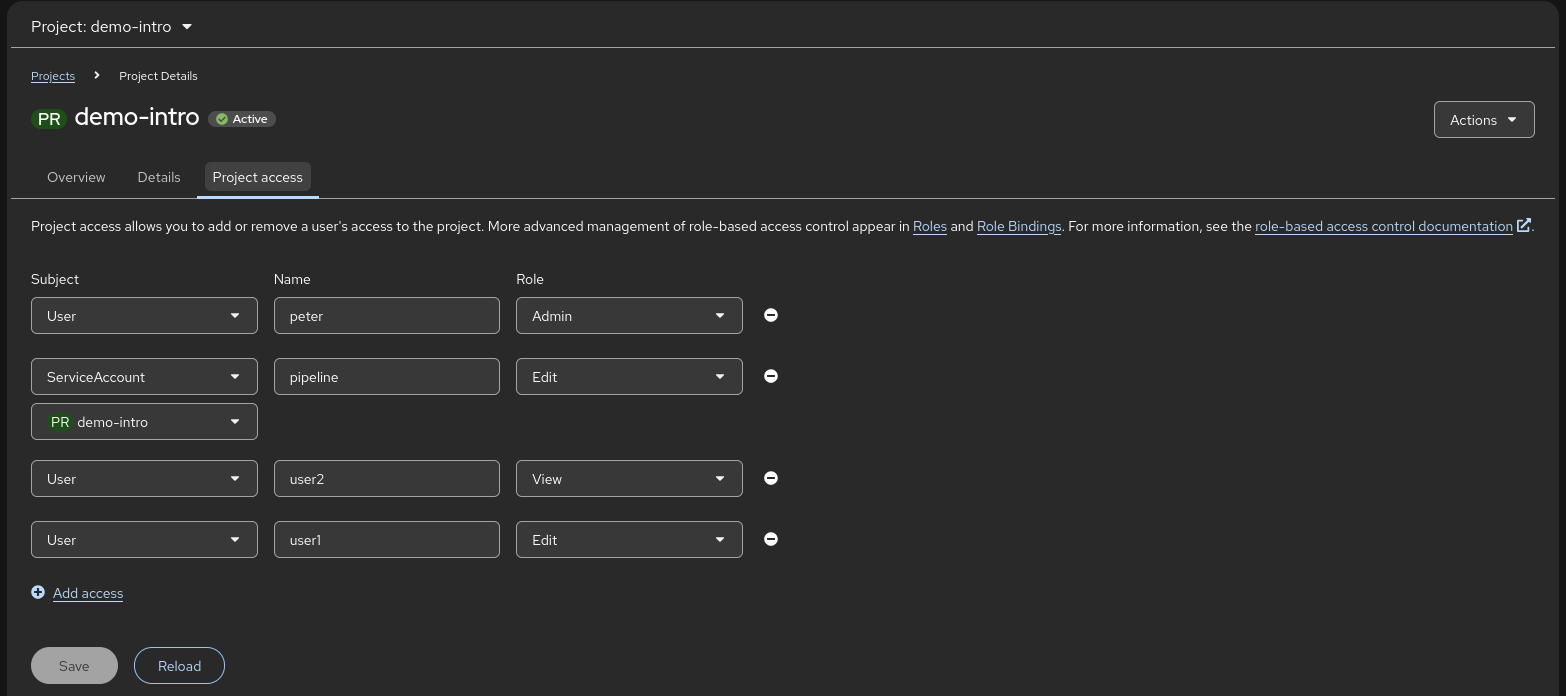
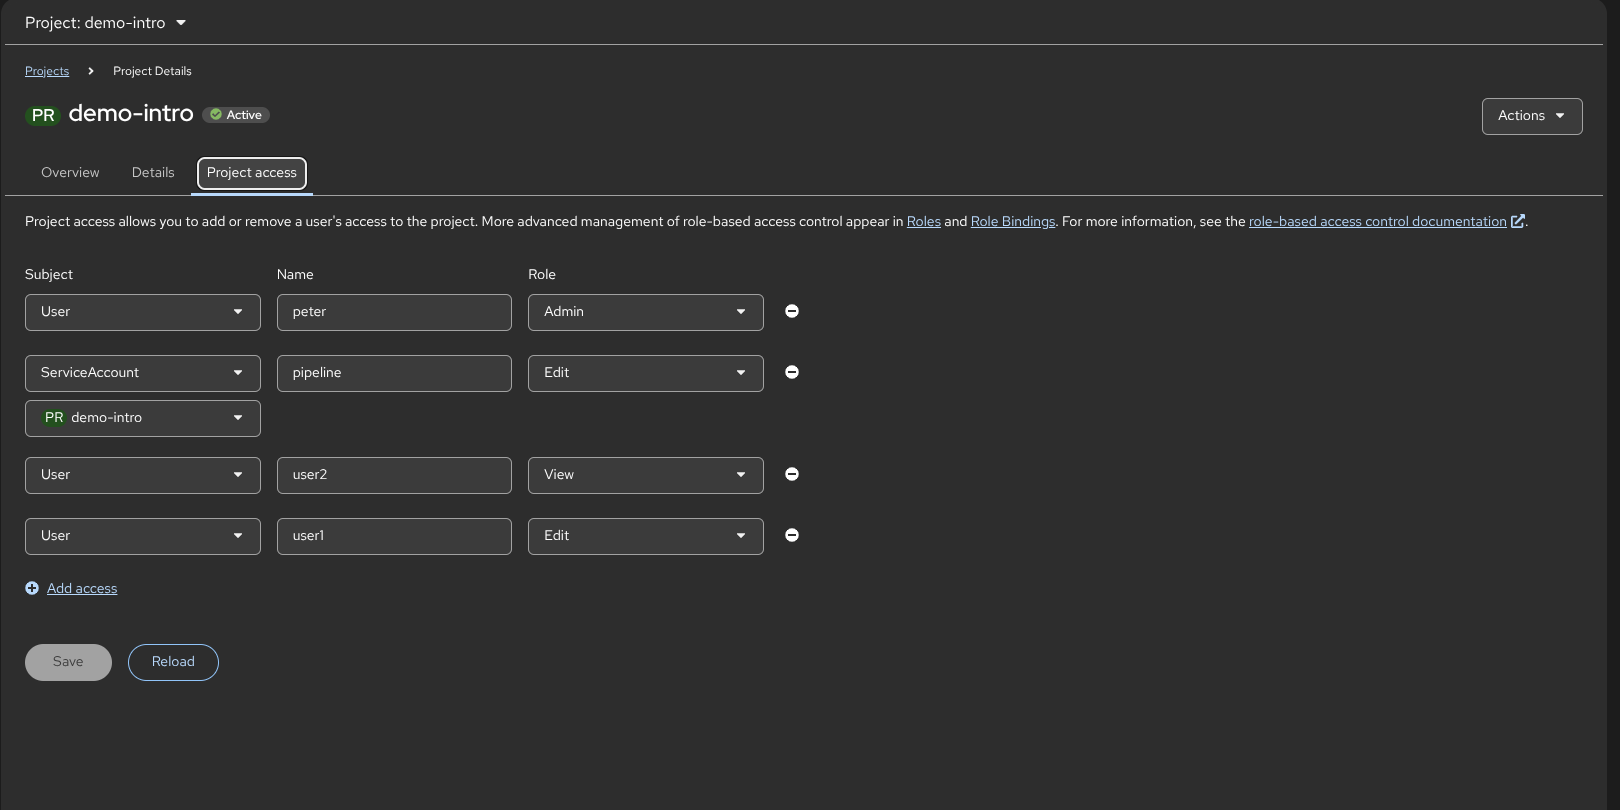
Added screendumps and adjusted demo scripts. Added hpa to the demo.

diff --git a/demo1-fundamentals/slides/index.html b/demo1-fundamentals/slides/index.html
@@ -150,7 +150,7 @@
     <div>
       <h2>Cluster</h2>
       <p class="def">Control plane runs the cluster.<br>Workers run your apps.</p>
-      <p class="where">In the demo: <b>the admin's Nodes page</b></p>
+      <p class="where">In the demo: <b>pods spread across the workers</b></p>
     </div>
     <svg class="diagram" viewBox="0 0 800 520" aria-label="Cluster: control plane and worker nodes">
       <rect class="dg-box grey" x="10" y="10" width="780" height="500" rx="16"/>
@@ -714,21 +714,23 @@ oc get deployment,service,secret,pvc \
 <section>
   <section>
     <h2>2 · Containers and pods</h2>
-    <p class="subheading">Look inside - then see what a bare pod is worth</p>
+    <p class="subheading">Look inside - reach the database by name - see what a bare pod is worth</p>
     <div class="steps">
       <ol>
         <li>The database pod: Details, <b>Logs</b>, <b>Terminal</b>, Events</li>
         <li><b>+Add → Import YAML</b>: a pod is a name and an image</li>
+        <li>Its Terminal: <code>postgresql</code> → the <b>Service</b></li>
         <li>Delete it - nothing brings it back</li>
-        <li>Delete the database pod - it comes back</li>
+        <li>Delete the database pod - new pod, same Service</li>
       </ol>
       <div>
         <p class="cli-label">The same, as code</p>
 <pre><code class="language-bash">oc rsh deployment/postgresql psql -c '\l'
 oc apply -f hello-pod.yaml
+oc exec hello -- getent hosts postgresql
 oc delete pod hello
 oc delete pod -l app=postgresql
-oc get pods</code></pre>
+oc get pods -o wide; oc get svc postgresql</code></pre>
       </div>
     </div>
     <aside class="notes">
@@ -737,9 +739,22 @@ Topology → postgresql → the pod. Details: pod IP and Node (tie back to
       inside the running container; id - a random high UID, not root. Events:
       scheduled → volume attached → pulled → started.
       +Add → Import YAML, paste manifests/hello-pod.yaml, Create: "this is all
-      a pod is - a name and an image". Actions → Delete Pod: gone for good.
+      a pod is - a name and an image".
+      The Service, from another pod: hello → Terminal tab:
+        getent hosts postgresql
+          → 172.30.x.x postgresql.demo-intro.svc.cluster.local
+        echo > /dev/tcp/postgresql/5432 && echo "postgresql:5432 is reachable"
+      "Any pod in the project can use the name postgresql. It resolves to
+      172.30... - the Service's stable address, not the database pod's 10.x
+      address from its Details tab - and the connection goes through. The
+      guestbook will use exactly that name in Part 3."
+      Actions → Delete Pod on hello: gone for good - nothing manages it.
       Contrast: delete the PostgreSQL pod - its Deployment replaces it within
-      seconds, and the data survives on the PVC.
+      seconds, with a NEW 10.x IP (Details), while the Service keeps the same
+      172.30 address. The data survives on the PVC.
+      If someone asks about connecting a desktop tool: oc port-forward
+      svc/postgresql 5432:5432 on the laptop (needs oc locally - the web
+      terminal runs inside the cluster), then the tool uses localhost:5432.
       Press DOWN for backup screenshots.
     </aside>
   </section>
@@ -815,8 +830,19 @@ Git Repo URL: https://local-gitea-gitea.apps.homeocp.ocp4.peterlarsen.org/ocpdem
     <div class="shot" data-src="images/demo1-source-environment.webp" data-caption="Deployment → Environment tab, one row mapped"></div>
   </section>
   <section class="backup">
-    <span class="backup-tag">Backup</span><h3>The guestbook, v1.0</h3>
-    <div class="shot" data-src="images/demo1-source-app-v1.webp" data-caption="Guestbook page v1.0 with entries"></div>
+    <span class="backup-tag">Backup</span><h3>The guestbook v1.0 - at its Route, talking to the database</h3>
+    <div class="shot" data-src="images/demo1-source-app-v1.webp" data-caption="The guestbook at https://guestbook-demo-intro.apps... - version, serving pod and database in the banner; two signed entries"></div>
+    <aside class="notes">
+      The end of Part 3: the app built from source by the pipeline, reached
+      through its Route (the URL in the address bar), and connected to the
+      database through the postgresql Service once the Secret was mapped.
+
+      The banner is there for the rest of the demo: the version (v1.0 - it
+      changes with a commit in Part 6), the pod that served this page (it
+      changes when we scale in Part 4), and the database it uses. The colour
+      comes from APP_COLOR, which we change in Part 7. Each entry records the
+      pod and version that wrote it.
+    </aside>
   </section>
 </section>
 
@@ -831,13 +857,20 @@ Git Repo URL: https://local-gitea-gitea.apps.homeocp.ocp4.peterlarsen.org/ocpdem
         <li>Delete the pod - a new one starts</li>
         <li>Scale to <b>3</b> - one Service, three endpoints</li>
         <li>Sticky sessions → round robin</li>
+        <li>CPU request, then <b>Add HorizontalPodAutoscaler</b></li>
+        <li>Load with <code>ab</code>: 2 → 6 pods, and back</li>
       </ol>
       <div>
         <p class="cli-label">The same, as code</p>
 <pre><code class="language-bash">oc delete pod -l deployment=guestbook
 oc scale deployment/guestbook --replicas=3
 oc patch route/guestbook \
-  --patch-file=guestbook-route-roundrobin.patch.yaml</code></pre>
+  --patch-file=guestbook-route-roundrobin.patch.yaml
+oc set resources deployment/guestbook \
+  --requests=cpu=50m,memory=320Mi --limits=memory=512Mi
+oc apply -f guestbook-hpa.yaml
+ab -k -c 10 -t 120 https://guestbook-demo-intro.apps…/
+oc get hpa guestbook -w</code></pre>
       </div>
     </div>
     <aside class="notes">
@@ -845,13 +878,33 @@ Topology → guestbook → Actions → Add Health Checks. Readiness: HTTP GET
       /readyz port 8080 ("only send traffic once the pod can reach the
       database"). Liveness: HTTP GET /healthz port 8080, initial delay 10
       ("restart it if the process hangs"). Add → another rollout.
-      Delete the pod → replacement straight away. Details → up arrow → 3 pods.
+      Delete the pod → replacement straight away. Details → up arrow → 3 pods,
+      on different worker nodes (each pod's Node field) - one machine failing
+      doesn't take the app down.
       Refresh: same pod every time. Sticky sessions in 10 seconds: "the router
       sets a cookie so your browser keeps hitting the same pod - good for apps
       with in-memory sessions; ours keeps everything in the database, so any
       pod can answer." Then:
       oc patch route/guestbook --patch-file=guestbook-route-roundrobin.patch.yaml
       Refresh in a new private window a few times - the pod name changes.
+      Autoscaling. First, what each pod asks for:
+      oc set resources deployment/guestbook --requests=cpu=50m,memory=320Mi --limits=memory=512Mi
+      "The autoscaler measures CPU as a percentage of the request, so it needs
+      one." Another rollout. (Same fields in the console: the Deployment's
+      Actions → Edit resource limits.)
+      Then in the console: Topology → guestbook → Actions → Add
+      HorizontalPodAutoscaler: min 2, max 6, CPU utilization 50% → Save.
+      "From now on the autoscaler owns the replica count - my manual 3 will
+      drop to 2." Then the same as code, which can say more than the form:
+      oc apply -f guestbook-hpa.yaml (adds a 1-minute scale-down window
+      instead of the default 5, so we see the pods go away again).
+      Load, from the laptop terminal (not the web terminal - ab is local):
+      ab -k -c 10 -t 120 https://guestbook-demo-intro.apps.homeocp.ocp4.peterlarsen.org/
+      oc get hpa guestbook -w   in a second terminal, and watch Topology:
+      CPU jumps far above 50%, and within ~30 s the ring goes from 2 to 6
+      pods. When ab ends (2 min), CPU drops and about a minute later it's back
+      to 2. Keep -c at 10: 50 concurrent requests queue behind the health
+      checks, pods turn Not Ready, and the autoscaler stops seeing them.
       Press DOWN for backup screenshots.
     </aside>
   </section>
@@ -863,6 +916,16 @@ Topology → guestbook → Actions → Add Health Checks. Readiness: HTTP GET
     <span class="backup-tag">Backup</span><h3>Three replicas</h3>
     <div class="shot" data-src="images/demo1-scale-replicas.webp" data-caption="Deployment details scaled to 3 pods"></div>
   </section>
+  <section class="backup">
+    <span class="backup-tag">Backup</span><h3>Autoscaling under load: 2 → 6 pods</h3>
+    <div class="shot" data-src="images/demo1-scale-hpa.webp" data-caption="Topology (or oc get hpa -w) while ab runs: CPU far above the 50% target, six guestbook pods"></div>
+    <aside class="notes">
+      Backup for the autoscaling step: under ab load the HorizontalPodAutoscaler
+      sees CPU far above its 50% target and grows the Deployment from 2 to 6
+      pods within about 30 seconds; a minute after the load stops it is back
+      to 2. Nobody touched the replica count - the autoscaler owns it now.
+    </aside>
+  </section>
 </section>
 
 <!-- Part 5 -->
@@ -872,7 +935,6 @@ Topology → guestbook → Actions → Add Health Checks. Readiness: HTTP GET
     <p class="subheading">Who may do what - per project</p>
     <div class="steps">
       <ol>
-        <li>peter: <b>Nodes</b> - the machines from the slides</li>
         <li>peter: <b>Project access</b> - admin / edit / view</li>
         <li>user2: same app, read-only</li>
         <li>user2: no scaling, no <b>Secrets</b></li>
@@ -888,11 +950,11 @@ oc auth can-i get secrets \
     </div>
     <aside class="notes">
 "Everything so far happened in a project, as a developer with the edit
-      role." Browser C (peter, Administrator perspective): Compute → Nodes -
-      "developers never need this page, and user1 can't even see it".
-      Browser C (peter, Developer perspective): Project → Project access -
-      peter admin, user1 edit, user2 view, and the pipeline service account
-      edit: "roles aren't only for people". Only the admin sees this tab.
+      role." Browser C (peter, Developer perspective): Project → Project
+      access - peter admin, user1 edit, user2 view, and the pipeline service
+      account edit: "roles aren't only for people". Only the admin sees this
+      tab. These are project roles; there are also cluster-wide roles, for the
+      platform team that runs the cluster itself - not today's topic.
       Browser B (user2): the same app, read-only - no scale arrows, Secrets →
       access denied (can't read the database password), no edit actions.
       Roles are standard and bound per project: user1 could be admin in a
@@ -901,12 +963,19 @@ oc auth can-i get secrets \
     </aside>
   </section>
   <section class="backup">
-    <span class="backup-tag">Backup</span><h3>Nodes (Administrator perspective)</h3>
-    <div class="shot" data-src="images/demo1-rbac-nodes.webp" data-caption="Compute → Nodes as peter"></div>
-  </section>
-  <section class="backup">
-    <span class="backup-tag">Backup</span><h3>Project access</h3>
-    <div class="shot" data-src="images/demo1-rbac-project-access.webp" data-caption="Project → Project access as peter"></div>
+    <span class="backup-tag">Backup</span><h3>Project access: who may do what in demo-intro</h3>
+    <div class="shot" data-src="images/demo1-rbac-project-access.webp" data-caption="Project → Project access as peter: peter Admin, the pipeline service account Edit, user1 Edit, user2 View"></div>
+    <aside class="notes">
+      The project's access list, as the project admin sees it (Project → Project
+      access - only an admin has this tab). peter is Admin, user1 (who built
+      everything so far) is Edit, user2 is View. The pipeline ServiceAccount
+      also has Edit in this project: the builds run under their own identity,
+      and need it to update the Deployment. Roles aren't only for people.
+
+      Each row is a RoleBinding: oc get rolebindings -n demo-intro shows the
+      same. These are project roles; cluster-wide roles exist for the
+      platform team, but aren't today's topic.
+    </aside>
   </section>
   <section class="backup">
     <span class="backup-tag">Backup</span><h3>user2: read-only</h3>

diff --git a/demo1-fundamentals/DEMO-SCRIPT.md b/demo1-fundamentals/DEMO-SCRIPT.md
@@ -34,7 +34,7 @@ cd demo1-fundamentals
 |---|---|---|
 | **Browser A – main** | `user1` / `welcome1` | Developer perspective → project **demo-intro** → Topology (empty) |
 | **Browser B – private window** | `user2` / `welcome1` | Developer perspective → project **demo-intro** → Topology |
-| **Browser C – other profile** | `peter` | Administrator perspective → Compute → Nodes |
+| **Browser C – other profile** | `peter` | Developer perspective → Project → Project access |
 | **Browser tab (in A)** | `demo` in Gitea | `https://local-gitea-gitea.apps.homeocp.ocp4.peterlarsen.org/ocpdemo/guestbook` |
 | **Slides** | – | `https://slides-faa-demo.apps.homeocp.ocp4.peterlarsen.org/demo1-fundamentals/`, press **S** for the speaker view |
 | **Web terminal** (in A) | `user1` | `>_` icon: `curl -sO http://slides.faa-demo.svc:8080/demo1-fundamentals/cheatsheet.sh && source cheatsheet.sh` |
@@ -51,7 +51,7 @@ The "OpenShift architecture 1:1" term slides below sit *under* "What is OpenShif
 
 | # | Term | One-line definition | Where it shows up in the demo |
 |---|---|---|---|
-| 1 | **Cluster** | Control plane nodes (API, scheduler, etcd) plus worker nodes that run the workloads | Part 5: the admin's **Nodes** page |
+| 1 | **Cluster** | Control plane nodes (API, scheduler, etcd) plus worker nodes that run the workloads | Part 4: after scaling, the pods are spread across the worker nodes (the Node field on each pod) |
 | 2 | **Node** | A machine (VM or bare metal) that runs pods | Part 2: the "Node" field on a pod |
 | 3 | **Container image** | The app plus its dependencies, packaged and immutable. It is stored in a **registry** | Part 3: the pipeline builds one |
 | 4 | **Pod** | One or more containers sharing an IP and storage. The smallest unit you run, and disposable | Part 2 |
@@ -94,7 +94,7 @@ Talking points:
 
 ## Part 2 – Containers and pods (4 min) · *Browser A*
 
-**Point to make:** a pod is the smallest unit. It is useful to look at, but on its own it is fragile.
+**Point to make:** a pod is the smallest unit. It is useful to look at, but on its own it is fragile. Other pods reach it through a **Service** name, not its IP.
 
 1. Topology → `postgresql` → the pod. On the pod page:
    - **Details:** the pod IP, and the **Node** it landed on (tie back to the slide).
@@ -102,8 +102,17 @@ Talking points:
    - **Terminal:** run `psql -c '\l'`. You're inside the running container. Run `id`: a random high UID, not root.
    - **Events:** scheduled → volume attached → image pulled → started.
 2. A pod on its own: **+Add → Import YAML**, paste `manifests/hello-pod.yaml` → **Create**. *"This is all a pod is: a name and an image."*
-3. **Actions → Delete Pod** on `hello`. It is gone, and nothing brings it back.
-4. Contrast: delete the PostgreSQL pod. A new one appears within seconds, because its **Deployment** replaces it. The data survives on the PVC.
+3. **The Service, seen from another pod.** On the `hello` pod, open the **Terminal** tab:
+   ```bash
+   getent hosts postgresql
+   # 172.30.x.x  postgresql.demo-intro.svc.cluster.local
+   echo > /dev/tcp/postgresql/5432 && echo "postgresql:5432 is reachable"
+   ```
+   *"Any pod in the project can use the name `postgresql`. It resolves to 172.30…, the Service's stable address, not the database pod's 10.x address we saw on its Details tab, and the connection goes through. The guestbook will use exactly that name in Part 3."*
+4. **Actions → Delete Pod** on `hello`. It is gone, and nothing brings it back.
+5. Contrast: delete the PostgreSQL pod. A new one appears within seconds, because its **Deployment** replaces it. It has a **new** 10.x IP (Details), while the Service keeps the same 172.30 address. The data survives on the PVC.
+
+*If someone asks about connecting a tool on their desktop:* `oc port-forward svc/postgresql 5432:5432` on the laptop, then point the tool at `localhost:5432`. It needs `oc` on the laptop; the web terminal runs inside the cluster, so it can't forward to your desktop.
 
 *Catch-up:* `steps/02-pod.sh`
 
@@ -152,22 +161,37 @@ Talking points:
 
 ---
 
-## Part 4 – Self-healing, health checks and scaling (5 min) · *Browser A*
+## Part 4 – Self-healing, health checks and scaling (8 min) · *Browser A* + laptop terminal
 
-**Point to make:** you declare the state you want, and OpenShift keeps it true.
+**Point to make:** you declare the state you want, and OpenShift keeps it true - including how many pods, depending on load.
 
 1. Topology → guestbook → **Actions → Add Health Checks**:
    - **Readiness:** HTTP GET `/readyz`, port 8080. *"Only send traffic once the pod can reach the database."*
    - **Liveness:** HTTP GET `/healthz`, port 8080, initial delay 10. *"Restart the container if the process hangs."*
    - **Add** (this is another rollout).
 2. Delete the guestbook pod. The ring shows the replacement starting straight away.
-3. **Details** tab → the **up arrow** → 3 pods. Open the Service's pods: three endpoints behind one name.
+3. **Details** tab → the **up arrow** → 3 pods. Open the Service's pods: three endpoints behind one name, and each pod's **Node** shows they landed on different workers. *"The scheduler spreads them, so one machine failing doesn't take the app down."*
 4. Refresh the app: "served by pod" doesn't change. *Sticky sessions, in 10 seconds:* "The router sets a cookie, so your browser keeps hitting the same pod. That's good for apps that keep session state in memory. Ours keeps everything in the database, so any pod can answer." Switch the route to round robin, again as code:
    ```bash
    cat guestbook-route-roundrobin.patch.yaml
    oc patch route/guestbook --patch-file=guestbook-route-roundrobin.patch.yaml
    ```
    Refresh in a new private window a few times: the pod name changes. Sign the book again: each entry records which pod wrote it, but they all share one database.
+5. **Autoscaling needs a CPU request.** In the terminal:
+   ```bash
+   oc set resources deployment/guestbook --requests=cpu=50m,memory=320Mi --limits=memory=512Mi
+   ```
+   *"The autoscaler measures CPU as a percentage of what the pod asked for, so it needs a request."* Another rollout. The same fields are in the console under the Deployment's **Actions → Edit resource limits**. (No CPU limit: it isn't needed for the demo, and a tight one slows the app under load.)
+6. **Add the autoscaler in the console:** Topology → guestbook → **Actions → Add HorizontalPodAutoscaler**: minimum **2**, maximum **6**, CPU utilization **50%** → **Save**. *"From now on the autoscaler owns the replica count: my manual 3 will drop to 2."* Then the same as code, which can say more than the form:
+   ```bash
+   oc apply -f guestbook-hpa.yaml         # adds a 1-minute scale-down window (default: 5 minutes)
+   ```
+7. **Load.** In the laptop terminal:
+   ```bash
+   ab -k -c 10 -t 120 https://guestbook-demo-intro.apps.homeocp.ocp4.peterlarsen.org/
+   ```
+   and `oc get hpa guestbook -w` in a second terminal, with Topology on screen. CPU jumps far above 50%, and within about 30 seconds the ring grows from 2 to 6 pods. When `ab` stops after 2 minutes, CPU drops, and about a minute later the Deployment is back to 2.
+   - Keep `-c` at **10**. With 50 concurrent requests, the health checks queue behind the load, the pods turn Not Ready, and the autoscaler ignores them (it shows `<unknown>`) until the load is over.
 
 *Catch-up:* `steps/04-scale.sh`
 
@@ -177,9 +201,8 @@ Talking points:
 
 **Point to make:** everything so far happened in a project, as a developer with the `edit` role. The admin decides who can see or change what in each project.
 
-1. **Browser C (peter, Administrator perspective):** **Compute → Nodes**. These are the nodes from the slides: control plane and workers. *"Developers never need this page, and user1 can't even see it."*
-2. **Browser C (peter, Developer perspective):** **Project** (left nav) → **Project access** tab: peter is `admin`, user1 is `edit`, user2 is `view`, and the `pipeline` **service account** has `edit` too. *"Roles aren't only for people: the pipeline runs under its own identity."* Only the admin sees this tab.
-3. **Browser B (user2, view):** the same Topology, the same app, but read-only:
+1. **Browser C (peter, Developer perspective):** **Project** (left nav) → **Project access** tab: peter is `admin`, user1 is `edit`, user2 is `view`, and the `pipeline` **service account** has `edit` too. *"Roles aren't only for people: the pipeline runs under its own identity."* Only the admin sees this tab. *"These are project roles. There are also cluster-wide roles, for the platform team that runs the cluster itself - not today's topic."*
+2. **Browser B (user2, view):** the same Topology, the same app, but read-only:
    - the guestbook's scale arrows are missing;
    - **Secrets** (left nav): access denied, so user2 can't read the database password;
    - Actions to edit or delete aren't available.
